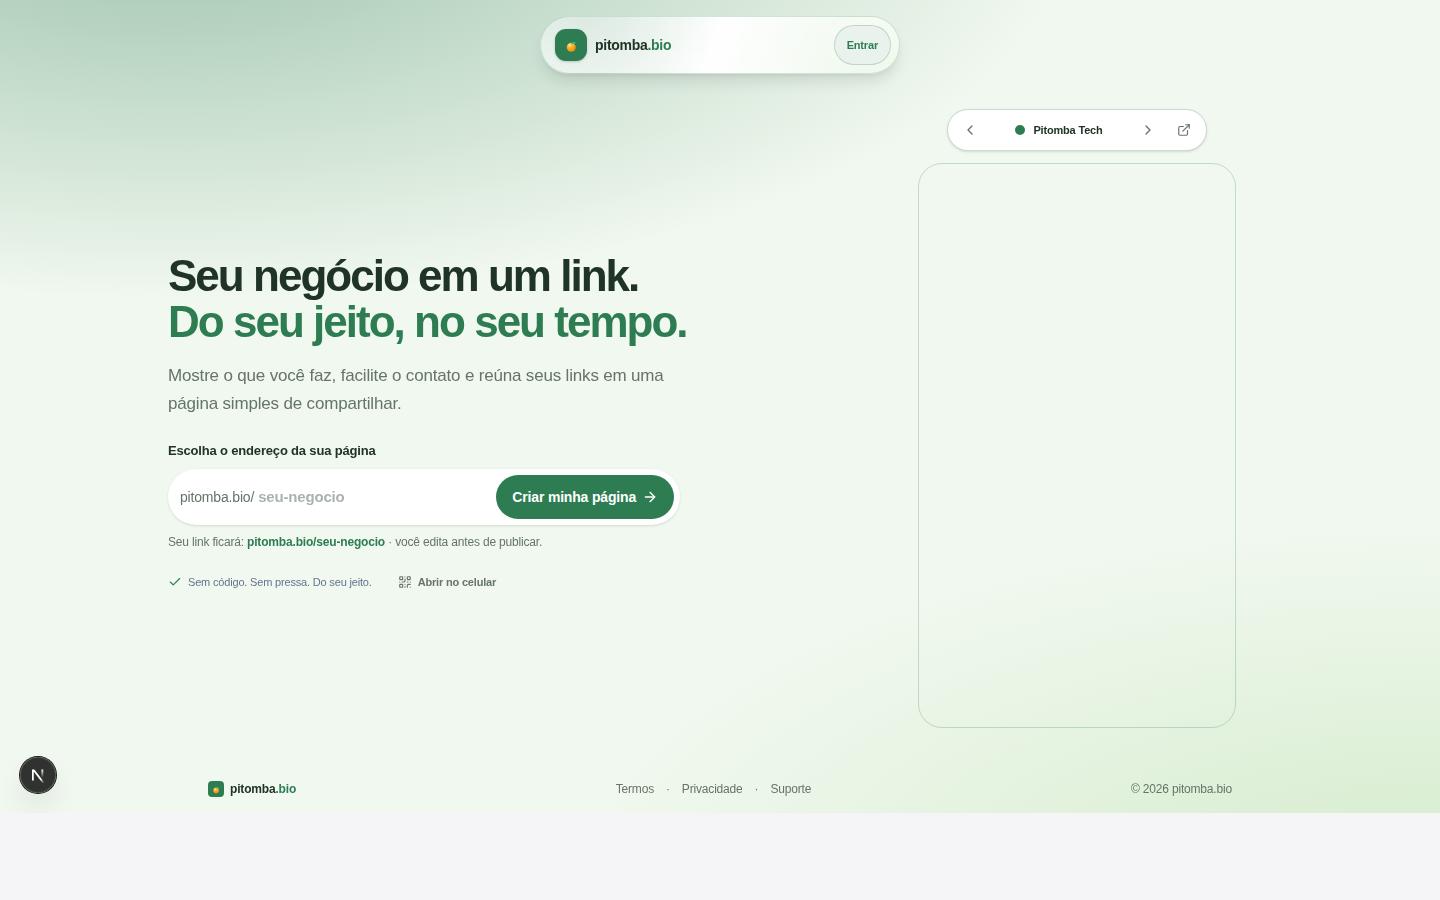
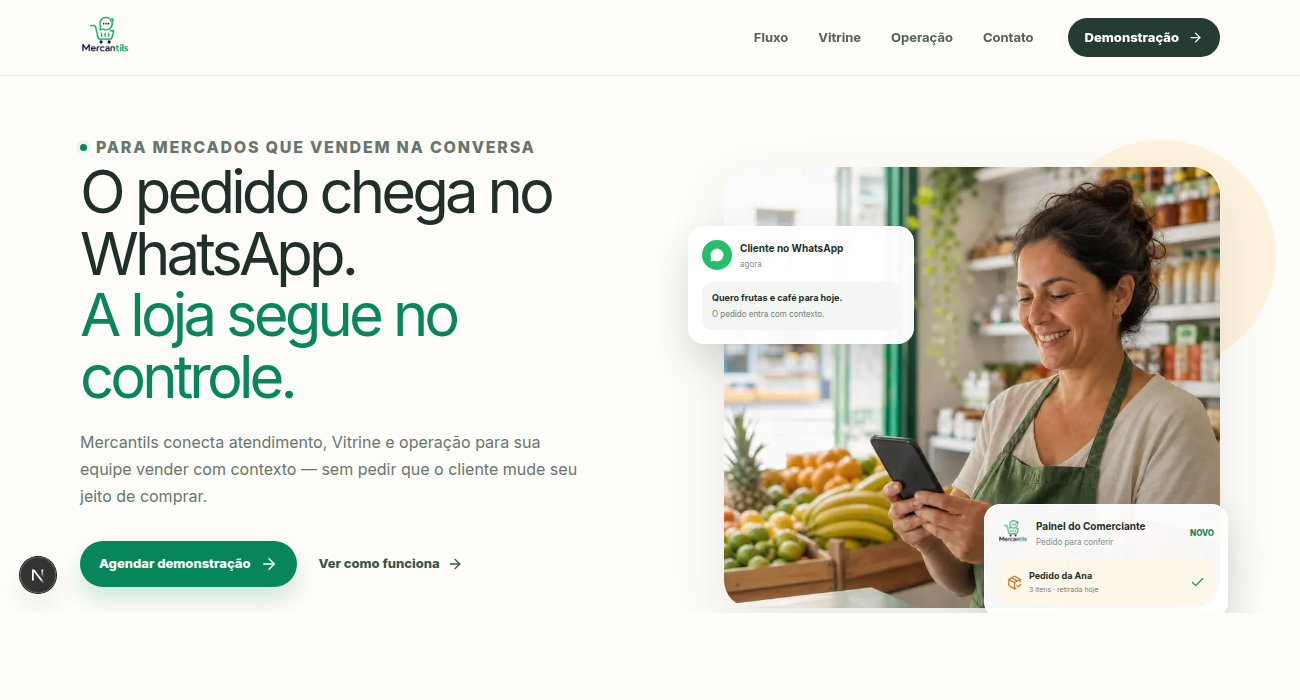
update portfolio case studies

diff --git a/src/content/projects.ts b/src/content/projects.ts
@@ -50,6 +50,13 @@ export const projects: Project[] = [
     slug: "pitomba-bio",
     title: "Pitomba Bio – Micro-SaaS de presença digital",
     mainCase: true,
+    cardImage: {
+      src: "/cases/pitomba-bio/home.png",
+      alt: {
+        pt: "Landing page do Pitomba Bio com preview de uma bio publicada",
+        en: "Pitomba Bio landing page with a published bio preview",
+      },
+    },
     shortDescription: {
       pt: "Micro-SaaS para profissionais e negócios locais criarem, personalizarem e publicarem uma página de bio com editor visual.",
       en: "Micro-SaaS for professionals and local businesses to create, customize, and publish a visual bio page.",
@@ -83,6 +90,19 @@ export const projects: Project[] = [
       pt: ["Reduzi a barreira inicial para criar uma presença digital publicável.", "A arquitetura permite adicionar temas e blocos sem reestruturar o banco a cada evolução."],
       en: ["Lowered the initial barrier to creating a publishable digital presence.", "The architecture allows new themes and blocks without restructuring the database for every evolution."],
     },
+    gallery: [
+      {
+        src: "/cases/pitomba-bio/home.png",
+        alt: {
+          pt: "Landing page do Pitomba Bio com preview interativo da bio",
+          en: "Pitomba Bio landing page with an interactive bio preview",
+        },
+        caption: {
+          pt: "A página apresenta a criação de uma presença digital simples, personalizável e publicável.",
+          en: "The page presents a simple, customizable, and publishable digital presence experience.",
+        },
+      },
+    ],
     results: {
       pt: ["Antes: criar uma página exigia configurar várias partes separadas -> Depois: o usuário edita diretamente o resultado final.", "Antes: temas dependiam de alterações estruturais -> Depois: temas passaram a ser registros de catálogo."],
       en: ["Before: creating a page required configuring separate parts -> After: users edit the final result directly.", "Before: themes depended on structural changes -> After: themes became catalog records."],
@@ -431,7 +451,7 @@ The result was a simpler, faster, and more sustainable editorial workflow.`,
   },
   {
     slug: "digital-net-telecom",
-    title: "Digital.Net Telecom – Plataforma web para provedor",
+    title: "Digital.Net Telecom – Landing comercial para provedor",
     featured: true,
     cardImage: {
       src: "/cases/digital-net-telecom/home-v2.png",
@@ -441,96 +461,91 @@ The result was a simpler, faster, and more sustainable editorial workflow.`,
       },
     },
     shortDescription: {
-      pt: "Plataforma web mais simples para provedor regional, com páginas comerciais, conteúdo por cidade e painel administrativo.",
-      en: "A simpler web platform for a regional ISP, with commercial pages, city-based content, and an admin dashboard.",
+      pt: "Landing pública para provedor regional, centrada em planos, cobertura e atendimento local.",
+      en: "A public landing page for a regional ISP, focused on plans, coverage, and local support.",
     },
     description: {
-      pt: `Produto fullstack para a operação digital de um provedor com múltiplas cidades, reunindo landing pages, gestão de conteúdo e painel administrativo em uma base única.
-O foco foi padronizar fluxos, reduzir inconsistência entre unidades e trazer mais previsibilidade para a operação.`,
-      en: `Fullstack product for the digital operation of an ISP across multiple cities, combining landing pages, content management, and an admin dashboard in one platform.
-The main goal was to standardize flows, reduce inconsistency between units, and bring more predictability to operations.`,
+      pt: `Nova experiência pública da Digital.Net Telecom, independente da landing anterior e desenhada para conduzir o visitante por planos, benefícios, cobertura e atendimento.
+A entrega combina uma direção visual mais editorial com conteúdo estruturado e chamadas diretas para WhatsApp, mantendo a base preparada para futuras integrações comerciais.`,
+      en: `A new public experience for Digital.Net Telecom, independent from the previous landing and designed to guide visitors through plans, benefits, coverage, and support.
+The delivery combines a more editorial visual direction with structured content and direct WhatsApp calls to action, while keeping the foundation ready for future commercial integrations.`,
     },
     challenge: {
-      pt: `A operação digital estava espalhada em páginas e fluxos desconectados.
-Isso gerava inconsistência entre cidades, retrabalho em conteúdo e pouca padronização nas APIs.`,
-      en: `The digital operation was spread across disconnected pages and workflows.
-That created inconsistency between cities, repeated content work, and weak API standardization.`,
+      pt: `A experiência anterior precisava de uma jornada comercial mais direta e coerente com um provedor regional.
+O desafio era comunicar oferta, cobertura e suporte sem transformar a primeira visita em um painel operacional cheio de ruído.`,
+      en: `The previous experience needed a more direct commercial journey aligned with a regional ISP.
+The challenge was to communicate offers, coverage, and support without turning the first visit into a noisy operational dashboard.`,
     },
     solution: {
-      pt: `Estruturei uma plataforma fullstack com arquitetura multi-cidade e um painel administrativo modular.
-Padronizei a camada de APIs com validações formais e cobertura de testes unitários e e2e.
-Também reorganizei as landing pages para manter consistência operacional e comercial entre as unidades.`,
-      en: `I structured a fullstack platform with multi-city architecture and a modular admin dashboard.
-I standardized the API layer with formal validation and unit/e2e test coverage.
-I also reorganized the landing pages to keep both operational and commercial consistency across city units.`,
+      pt: `Construí uma landing independente em Next.js, composta por seções reutilizáveis para hero, planos, benefícios, depoimentos, cobertura, FAQ e contato.
+O conteúdo pode vir do Notion com cache e fallback local, enquanto os fluxos interativos — slider, menu, FAQ e consulta de CEP — permanecem leves e orientados à conversão.`,
+      en: `I built an independent Next.js landing page composed of reusable sections for the hero, plans, benefits, testimonials, coverage, FAQ, and contact.
+Content can come from Notion with caching and a local fallback, while interactive flows — slider, menu, FAQ, and CEP lookup — remain lightweight and conversion-oriented.`,
     },
     stack: [
-      "Next.js 15",
-      "React",
+      "Next.js 16",
+      "React 19",
       "TypeScript",
-      "Prisma",
-      "PostgreSQL",
-      "NextAuth",
-      "Zod",
-      "React Query",
-      "Jest",
-      "Playwright",
-      "OpenAI SDK",
+      "Tailwind CSS 4",
+      "Notion API",
+      "Lucide React",
     ],
     architecture: {
       pt: [
-        "Estrutura modular com App Router",
-        "Camada de API no padrão BFF",
-        "Organização de componentes orientada a domínio",
-        "Isolamento lógico multi-cidade",
-        "Endpoints REST validados",
+        "Landing independente com App Router",
+        "Composição por componentes e seções reutilizáveis",
+        "Conteúdo opcional via Notion com fallback local",
+        "Cache server-side com revalidação periódica",
+        "Interações client-side isoladas por jornada",
       ],
       en: [
-        "App Router modular structure",
-        "BFF API layer",
-        "Domain-oriented component organization",
-        "Multi-city logical isolation",
-        "Validated REST endpoints",
+        "Independent landing built with the App Router",
+        "Composition through reusable components and sections",
+        "Optional Notion content with a local fallback",
+        "Server-side cache with periodic revalidation",
+        "Client-side interactions isolated by journey",
       ],
     },
     technicalDecisions: {
       pt: [
-        "Escolhi estrutura orientada a domínio em vez de organização por tipo de arquivo para reduzir acoplamento entre módulos.",
-        "Escolhi validação com Zod na fronteira das APIs em vez de validações dispersas para manter contratos previsíveis.",
-        "Escolhi suíte automatizada (unit + e2e) em vez de validação manual recorrente para reduzir regressão em fluxos críticos.",
+        "Separei a v2 da landing anterior para evoluir a direção comercial e visual sem carregar dependências da experiência antiga.",
+        "Usei Notion como fonte opcional de conteúdo, com fallback local para a página continuar disponível mesmo sem CMS configurado.",
+        "Mantive a consulta de cobertura simples e progressiva: validação de CEP no cliente e encaminhamento contextual para WhatsApp.",
+        "Priorizei semântica, foco nativo e redução de movimento para equilibrar conversão, acessibilidade e leveza.",
       ],
       en: [
-        "I chose domain-oriented structure instead of file-type organization to reduce coupling across modules.",
-        "I chose Zod validation at API boundaries instead of scattered checks to keep contracts predictable.",
-        "I chose automated unit + e2e suites instead of repeated manual validation to reduce regression in critical flows.",
+        "I separated v2 from the previous landing to evolve the commercial and visual direction without carrying the old experience's dependencies.",
+        "I used Notion as an optional content source with a local fallback so the page remains available without a configured CMS.",
+        "I kept the coverage journey progressive: CEP validation in the client followed by contextual handoff to WhatsApp.",
+        "I prioritized semantics, native focus, and reduced motion to balance conversion, accessibility, and speed.",
       ],
     },
     highlights: {
       pt: [
-        "Testes automatizados unitários e e2e",
-        "Dashboard administrativo multi-módulo",
-        "Otimização de landing pages para conversão",
-        "Validação de API com Zod",
-        "Integração com IA para recursos avançados",
+        "Hero com narrativa por contexto de uso",
+        "Planos, benefícios e cobertura em uma jornada única",
+        "CTAs diretos para WhatsApp e consulta de cobertura",
+        "Conteúdo editável via Notion sem acoplar a apresentação ao CMS",
+        "Experiência responsiva com acessibilidade e reduced motion",
       ],
       en: [
-        "Automated unit and e2e testing",
-        "Multi-module admin dashboard",
-        "Landing page optimization for conversion",
-        "API validation with Zod",
-        "AI integration for enhanced functionality",
+        "Hero narrative organized by use case",
+        "Plans, benefits, and coverage in one journey",
+        "Direct CTAs for WhatsApp and coverage lookup",
+        "Editable Notion content without coupling presentation to the CMS",
+        "Responsive experience with accessibility and reduced motion",
       ],
     },
     impact: {
       pt: [
-        "Gestão operacional de ISP centralizada",
-        "Maior consistência entre conteúdos por cidade",
-        "Fluxo estruturado de gestão de leads",
+        "Proposta comercial mais clara na primeira visita",
+        "Menos ruído entre oferta, cobertura e atendimento",
+        "Base leve para conectar CMS, leads e páginas de suporte depois",
       ],
       en: [
-        "Centralized ISP operational management",
-        "Improved consistency across city-level content",
-        "Structured lead management workflow",
+        "Clearer commercial proposition on the first visit",
+        "Less noise between offer, coverage, and support",
+        "A lightweight foundation for future CMS, lead, and support-page integrations",
       ],
     },
     gallery: [
@@ -545,62 +560,17 @@ I also reorganized the landing pages to keep both operational and commercial con
           en: "New commercial experience focused on plans, benefits, and coverage.",
         },
       },
-      {
-        src: "/cases/digital-net-telecom/flow.png",
-        alt: {
-          pt: "Fluxo operacional e APIs da Digital.Net Telecom",
-          en: "Digital.Net Telecom operational flow and APIs",
-        },
-        caption: {
-          pt: "Fluxo de operação com validações formais e consistência entre módulos.",
-          en: "Operational flow with formal validation and consistent modules.",
-        },
-      },
-      {
-        src: "/cases/digital-net-telecom/admin.png",
-        alt: {
-          pt: "Painel administrativo da Digital.Net Telecom",
-          en: "Digital.Net Telecom admin dashboard",
-        },
-        caption: {
-          pt: "Dashboard para gestão centralizada de operação e conteúdo.",
-          en: "Dashboard for centralized operations and content management.",
-        },
-      },
-    ],
-    metrics: [
-      {
-        label: { pt: "Lighthouse", en: "Lighthouse" },
-        value: {
-          pt: "Mobile: [preencher] | Desktop: [preencher]",
-          en: "Mobile: [fill] | Desktop: [fill]",
-        },
-      },
-      {
-        label: { pt: "Tempo de publicação", en: "Publishing time" },
-        value: {
-          pt: "Antes: [preencher] -> Depois: [preencher]",
-          en: "Before: [fill] -> After: [fill]",
-        },
-      },
-      {
-        label: { pt: "SEO / Google Search Console", en: "SEO / Google Search Console" },
-        value: {
-          pt: "Impressões: [preencher] | Cliques: [preencher] | CTR: [preencher]",
-          en: "Impressions: [fill] | Clicks: [fill] | CTR: [fill]",
-        },
-      },
     ],
     results: {
       pt: [
-        "Antes: a operação ficava distribuída em fluxos desconectados -> Depois: a gestão passou a ser centralizada em uma única plataforma.",
-        "Antes: cada cidade seguia padrões diferentes -> Depois: a estrutura multi-cidade trouxe mais consistência entre unidades.",
-        "Antes: integrações sofriam mais com regressão -> Depois: APIs validadas e testadas deram mais previsibilidade à evolução do produto.",
+        "Antes: a proposta comercial estava apoiada na experiência anterior -> Depois: uma landing independente passou a organizar a jornada por planos, cobertura e atendimento.",
+        "Antes: o conteúdo dependia de uma estrutura rígida -> Depois: a combinação entre Notion e fallback local permite evoluir as informações sem comprometer a disponibilidade.",
+        "Antes: a primeira visita tinha mais caminhos dispersos -> Depois: CTAs e seções conduzem o visitante até a consulta de cobertura ou o WhatsApp.",
       ],
       en: [
-        "Before: operations were split across disconnected flows -> After: management became centralized in a single platform.",
-        "Before: each city followed a different pattern -> After: the multi-city structure created more consistency across units.",
-        "Before: integrations were more regression-prone -> After: validated, tested APIs made product evolution more predictable.",
+        "Before: the commercial proposition relied on the previous experience -> After: an independent landing page organized the journey around plans, coverage, and support.",
+        "Before: content depended on a rigid structure -> After: Notion plus a local fallback allows information to evolve without compromising availability.",
+        "Before: the first visit had more scattered paths -> After: CTAs and sections guide visitors toward coverage lookup or WhatsApp.",
       ],
     },
     links: [
